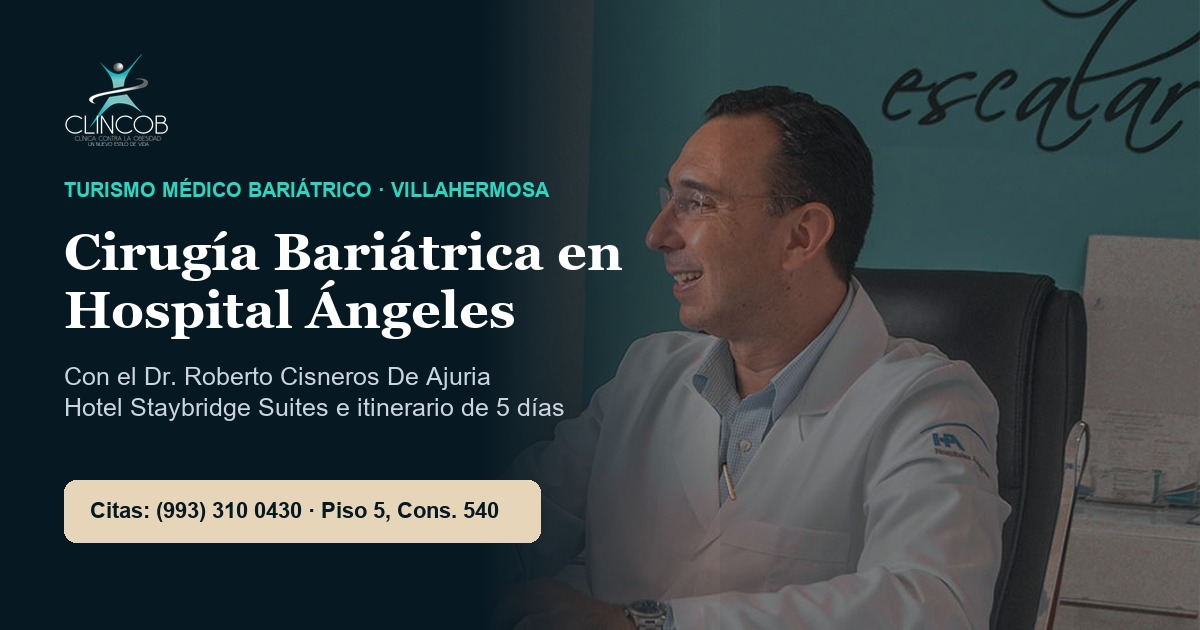
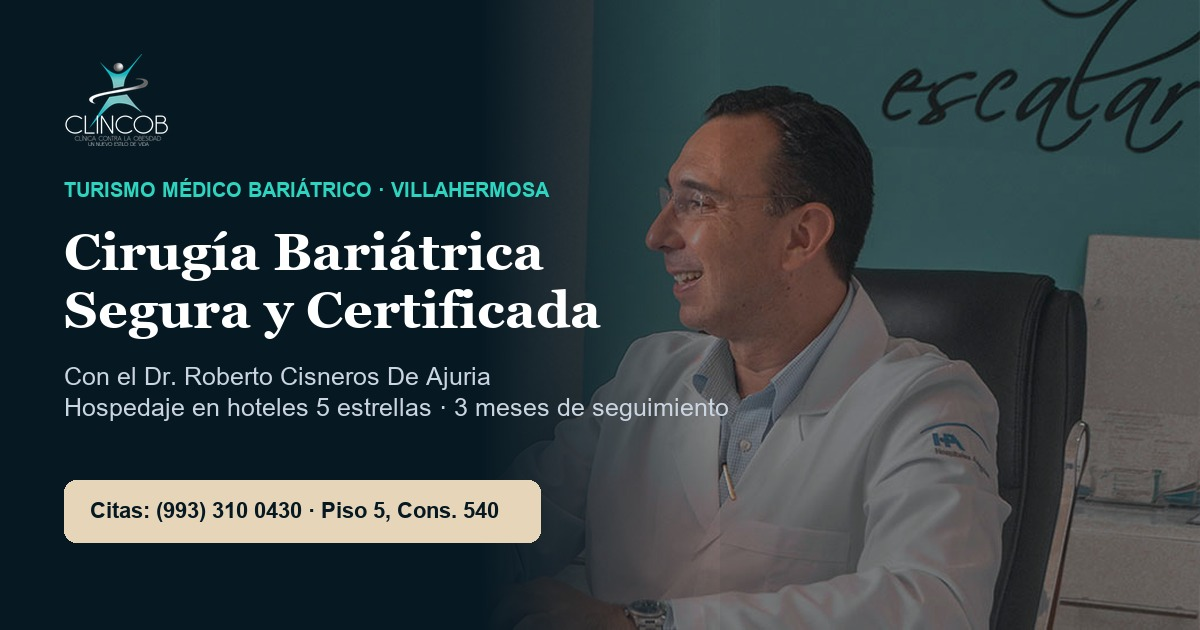
Remove hotel names and Hospital Angeles from Hero, strengthen trust messaging

Changed region(s): [[0.0308, 0.3921, 0.5242, 0.5429], [0.0617, 0.6333, 0.6167, 0.6635]]

diff --git a/src/App.jsx b/src/App.jsx
@@ -198,29 +198,29 @@ export default function App() {
         <div className="container hero-split">
           <div>
             <div className="hero-kicker">
-              Turismo Médico Bariátrico · Villahermosa, Tabasco
+              Cirugía Bariátrica Segura · Turismo Médico Villahermosa
             </div>
             <h1 className="hero-title">
-              Tu cirugía bariátrica en <em>Hospital Ángeles</em>, con hotel y viaje coordinados.
+              Recupera tu salud en <em>manos certificadas</em>, con todo tu viaje resuelto.
             </h1>
 
             <ul className="hero-checklist">
               <li>
                 <CheckCircle2 size={18} color="#2dd4bf" style={{ flexShrink: 0 }} />
                 <span>
-                  <strong>Dirigido por el Dr. Roberto Cisneros De Ajuria</strong> (Manga, Bypass o Balón)
+                  <strong>Cirujano Certificado</strong> por el Consejo Mexicano de Cirugía General y miembro <strong>IFSO</strong>
                 </span>
               </li>
               <li>
                 <CheckCircle2 size={18} color="#2dd4bf" style={{ flexShrink: 0 }} />
                 <span>
-                  <strong>Hospedaje en Hotel Staybridge Suites</strong> para ti y tu acompañante
+                  <strong>Hospédate en hoteles de prestigio 5 estrellas</strong> con comodidad para ti y tu acompañante
                 </span>
               </li>
               <li>
                 <CheckCircle2 size={18} color="#2dd4bf" style={{ flexShrink: 0 }} />
                 <span>
-                  <strong>Itinerario exacto de 5 días</strong> desde tu llegada hasta tu regreso a casa
+                  <strong>Acompañamiento médico directo</strong> del Dr. Roberto Cisneros antes, durante y después de tu cirugía
                 </span>
               </li>
             </ul>
@@ -231,18 +231,18 @@ export default function App() {
                 Calcular mi IMC y Simular Viaje
               </a>
               <a href="#agendar" className="btn btn-ghost-light">
-                Agendar Valoración
+                Agendar Valoración Gratuita
               </a>
             </div>
 
             <div className="hero-metrics">
               <div className="hero-metric">
-                <strong>5 Días</strong>
-                <span>Estancia promedio en Villahermosa</span>
+                <strong>+300</strong>
+                <span>Casos de éxito comprobados</span>
               </div>
               <div className="hero-metric">
-                <strong>+300</strong>
-                <span>Casos de éxito avalados</span>
+                <strong>100%</strong>
+                <span>Protocolo laparoscópico seguro</span>
               </div>
               <div className="hero-metric">
                 <strong>3 Meses</strong>
@@ -262,9 +262,9 @@ export default function App() {
             </div>
             <div className="hero-doc-caption">
               <div>
-                <small>Director Médico · Cirujano Titular</small>
+                <small>Certificación Vigente · Cirujano Titular</small>
                 <h2>{DOCTOR_PROFILE.name}</h2>
-                <p>Certificado por el Consejo Mexicano de Cirugía General · Miembro IFSO</p>
+                <p>Director Médico CLINCOB · Más de 20 años de trayectoria quirúrgica</p>
               </div>
               <a
                 href="#doctor"
@@ -281,19 +281,19 @@ export default function App() {
           <div className="container concierge-strip-grid">
             <div className="concierge-item">
               <span className="concierge-num">01</span>
-              <span>Llegada y hospedaje en Staybridge Suites</span>
+              <span>Hospedaje en hoteles 5 estrellas</span>
             </div>
             <div className="concierge-item">
               <span className="concierge-num">02</span>
-              <span>Valoración y cirugía en Hospital Ángeles</span>
+              <span>Valoración y cirugía certificada</span>
             </div>
             <div className="concierge-item">
               <span className="concierge-num">03</span>
-              <span>Retiro de drenaje y regreso seguro</span>
+              <span>Recuperación supervisada y alta segura</span>
             </div>
             <div className="concierge-item">
               <span className="concierge-num">04</span>
-              <span>Seguimiento nutricional y psicológico 3 meses</span>
+              <span>Seguimiento nutricional y médico 3 meses</span>
             </div>
           </div>
         </div>
@@ -399,12 +399,12 @@ export default function App() {
           <div className="experience-grid">
             <article className="exp-photo-card">
               <span className="exp-step-pill">01 · Hospedaje</span>
-              <img src="/assets/hotel-suite.jpg" alt="Hospedaje en Hotel Staybridge Suites" />
+              <img src="/assets/hotel-suite.jpg" alt="Hospedaje en hotel de prestigio 5 estrellas" />
               <div className="exp-photo-grad" />
               <div className="exp-photo-content">
-                <small>Staybridge Suites Villahermosa</small>
+                <small>Hoteles de Prestigio 5 Estrellas</small>
                 <h3>Suite para Ti y tu Acompañante</h3>
-                <p>Descanso cómodo a minutos del hospital desde tu llegada.</p>
+                <p>Hospédate en hoteles de prestigio a minutos del hospital desde tu llegada.</p>
               </div>
             </article>
 
@@ -595,7 +595,7 @@ export default function App() {
               <div className="nights-strip">
                 <div className="night-pill">
                   <small>Noche 1</small>
-                  <span>Staybridge Suites</span>
+                  <span>Hotel 5 Estrellas</span>
                 </div>
                 <div className="night-pill">
                   <small>Noche 2</small>
@@ -631,7 +631,7 @@ export default function App() {
                   <strong style={{ color: 'var(--teal-400)' }}>Hospedaje:</strong>{' '}
                   {withCompanion
                     ? activeCity.stayNights
-                    : '4 noches en Staybridge Suites (habitación individual)'}
+                    : '4 noches en hotel de prestigio 5 estrellas (habitación individual)'}
                 </div>
                 <div>
                   <strong style={{ color: 'var(--teal-400)' }}>Alta y Regreso:</strong>{' '}
@@ -688,8 +688,8 @@ export default function App() {
               <h3>{activeDay.title}</h3>
               <p>
                 Torre de Especialidades Hospital Ángeles Piso 5, Consultorio 540 · Paseo Usumacinta
-                2085, Col. Tabasco 2000. Hospedaje coordinado en Hotel Staybridge Suites (incluye
-                opción para acompañante).
+                2085, Col. Tabasco 2000. Hospedaje coordinado en hoteles de prestigio 5 estrellas
+                (incluye opción para acompañante).
               </p>
             </div>
 
@@ -1103,7 +1103,7 @@ export default function App() {
               </p>
               <p style={{ fontSize: '0.88rem', display: 'flex', gap: '8px' }}>
                 <Building2 size={18} color="#2dd4bf" style={{ flexShrink: 0 }} />
-                <span>Hospedaje aliado: Hotel Staybridge Suites Villahermosa</span>
+                <span>Hospedaje aliado en hoteles de prestigio 5 estrellas</span>
               </p>
             </div>
 

diff --git a/src/data/clincobData.js b/src/data/clincobData.js
@@ -31,15 +31,15 @@ export const ITINERARY_DAYS = [
   {
     id: 'dia-1',
     dayLabel: 'Día 1 · Llegada',
-    title: 'Recepción y Hospedaje en Hotel Staybridge Suites',
+    title: 'Recepción y Hospedaje en Hotel 5 Estrellas',
     summary:
-      'Llegas a Villahermosa (en avión o vehículo propio, solo o con tu acompañante). Tu habitación queda coordinada cerca de Hospital Ángeles para tu descanso previo.',
+      'Llegas a Villahermosa (en avión o vehículo propio, solo o con tu acompañante). Tu habitación en hotel de prestigio queda coordinada para tu descanso previo.',
     rows: [
       {
         fecha: 'Día 1',
         hora: 'Check-in',
-        lugar: 'Hotel Staybridge Suites',
-        actividad: 'Hospedaje coordinado para paciente y acompañante (habitación lista a su nombre).',
+        lugar: 'Hotel 5 Estrellas',
+        actividad: 'Hospedaje coordinado en hotel de prestigio para paciente y acompañante.',
         highlight: true,
       },
     ],
@@ -249,7 +249,7 @@ export const TEAM_MEMBERS = [
 export const FAQS = [
   {
     q: '¿Puedo viajar acompañado de un familiar?',
-    a: 'Sí. De hecho, en nuestro itinerario de Turismo Médico coordinamos tu hospedaje en Hotel Staybridge Suites contemplando a tu acompañante (la habitación puede quedar a su nombre) para que estés respaldado desde tu llegada hasta tu regreso.',
+    a: 'Sí. De hecho, en nuestro itinerario de Turismo Médico coordinamos tu hospedaje en hoteles de prestigio 5 estrellas contemplando a tu acompañante (la habitación puede quedar a su nombre) para que estés respaldado desde tu llegada hasta tu regreso.',
   },
   {
     q: '¿Cuántos días necesito permanecer en Villahermosa?',
@@ -270,28 +270,28 @@ export const ORIGIN_CITIES = [
     id: 'coatzacoalcos',
     label: 'Coatzacoalcos / Veracruz',
     travelMode: 'Traslado terrestre (~2 hrs en auto propio)',
-    stayNights: '4 noches en Staybridge Suites (habitación para ti y tu acompañante)',
+    stayNights: '4 noches en hotel de prestigio 5 estrellas (habitación para ti y tu acompañante)',
     returnNote: 'Regreso al Día 5 tras retiro de drenaje en Consultorio 540.',
   },
   {
     id: 'cdmx',
     label: 'CDMX / Centro',
     travelMode: 'Vuelo directo a Villahermosa (~1h 20m)',
-    stayNights: '4 noches en Staybridge Suites a minutos de Hospital Ángeles',
+    stayNights: '4 noches en hotel 5 estrellas a minutos de la sede quirúrgica',
     returnNote: 'Alta quirúrgica supervisada antes de tu vuelo de regreso.',
   },
   {
     id: 'sureste',
     label: 'Mérida / Cancún / Chiapas',
     travelMode: 'Vuelo corto o carretera hacia Villahermosa',
-    stayNights: '4 noches en Staybridge Suites con opción de acompañante',
+    stayNights: '4 noches en hotel de prestigio 5 estrellas con opción de acompañante',
     returnNote: 'Seguimiento remoto de Nutrición y Psicología por 3 meses.',
   },
   {
     id: 'extranjero',
     label: 'Monterrey / EE.UU. / Otro',
     travelMode: 'Conexión aérea al Aeropuerto de Villahermosa (VSA)',
-    stayNights: 'Estancia coordinada en Staybridge Suites + 24h en Hospital Ángeles',
+    stayNights: 'Estancia coordinada en hotel 5 estrellas + 24h de internamiento hospitalario',
     returnNote: 'Coordinación completa de estudios previos antes de viajar.',
   },
 ];

diff --git a/index.html b/index.html
@@ -6,7 +6,7 @@
     <title>CLINCOB Turismo Médico | Cirugía Bariátrica con el Dr. Roberto Cisneros De Ajuria</title>
     <meta
       name="description"
-      content="Programa integral de Turismo Médico Bariátrico en Hospital Ángeles Villahermosa. Cirugía segura (Manga Gástrica, Bypass y Balón) dirigida por el Dr. Roberto Cisneros De Ajuria, hospedaje en Staybridge Suites e itinerario de 5 días."
+      content="Programa integral de Turismo Médico Bariátrico en Villahermosa. Cirugía segura (Manga Gástrica, Bypass y Balón) dirigida por el Dr. Roberto Cisneros De Ajuria, hospedaje en hoteles 5 estrellas y seguimiento de 3 meses."
     />
     <meta
       name="keywords"
@@ -28,7 +28,7 @@
     />
     <meta
       property="og:description"
-      content="Viaja a Villahermosa con todo resuelto: Hospital Ángeles (Piso 5, Cons. 540), hospedaje en Hotel Staybridge Suites, cirugía con el Dr. Roberto Cisneros De Ajuria y 3 meses de seguimiento."
+      content="Viaja a Villahermosa con todo resuelto: cirugía certificada con el Dr. Roberto Cisneros De Ajuria, hospedaje en hoteles de prestigio 5 estrellas y 3 meses de seguimiento."
     />
     <meta property="og:image" content="https://clincob-turismo-medico.vercel.app/assets/og-preview.jpg" />
     <meta property="og:image:secure_url" content="https://clincob-turismo-medico.vercel.app/assets/og-preview.jpg" />
@@ -48,7 +48,7 @@
     />
     <meta
       name="twitter:description"
-      content="Tu cirugía bariátrica en Hospital Ángeles Villahermosa con hospedaje en Staybridge Suites e itinerario personalizado de 5 días."
+      content="Tu cirugía bariátrica en Villahermosa con hospedaje en hoteles 5 estrellas y seguimiento médico personalizado."
     />
     <meta name="twitter:image" content="https://clincob-turismo-medico.vercel.app/assets/og-preview.jpg" />
 
